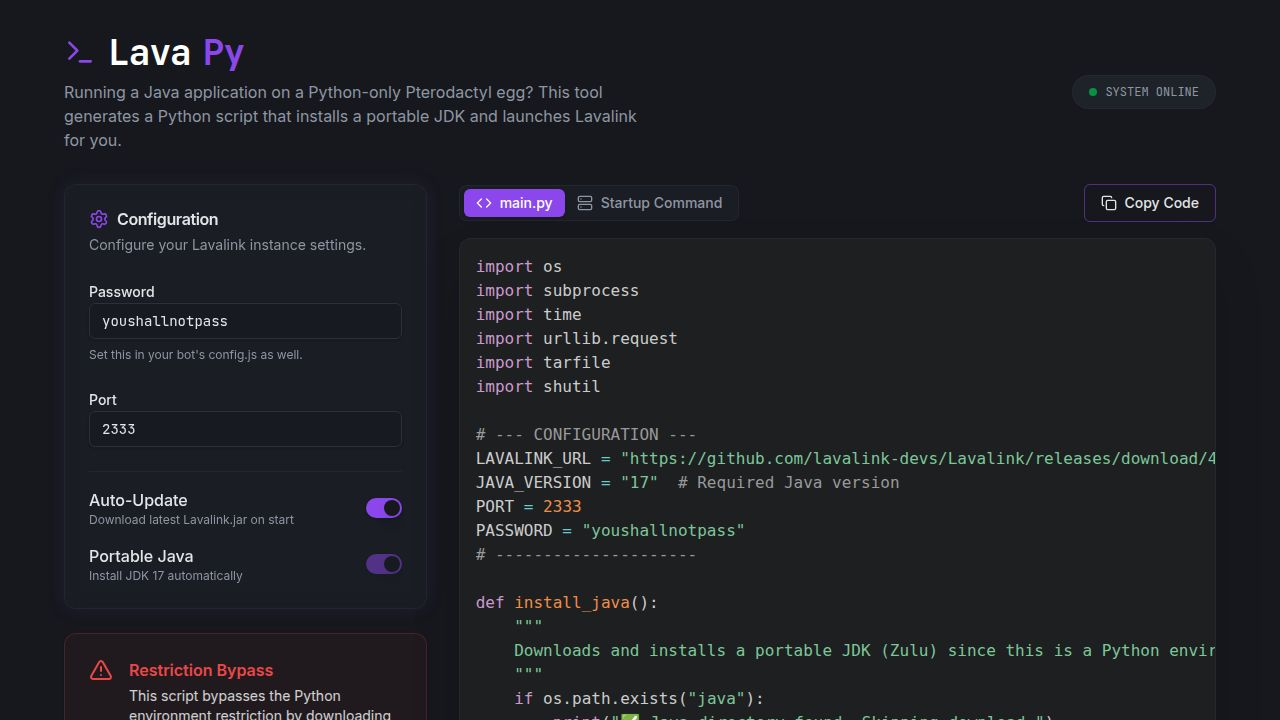
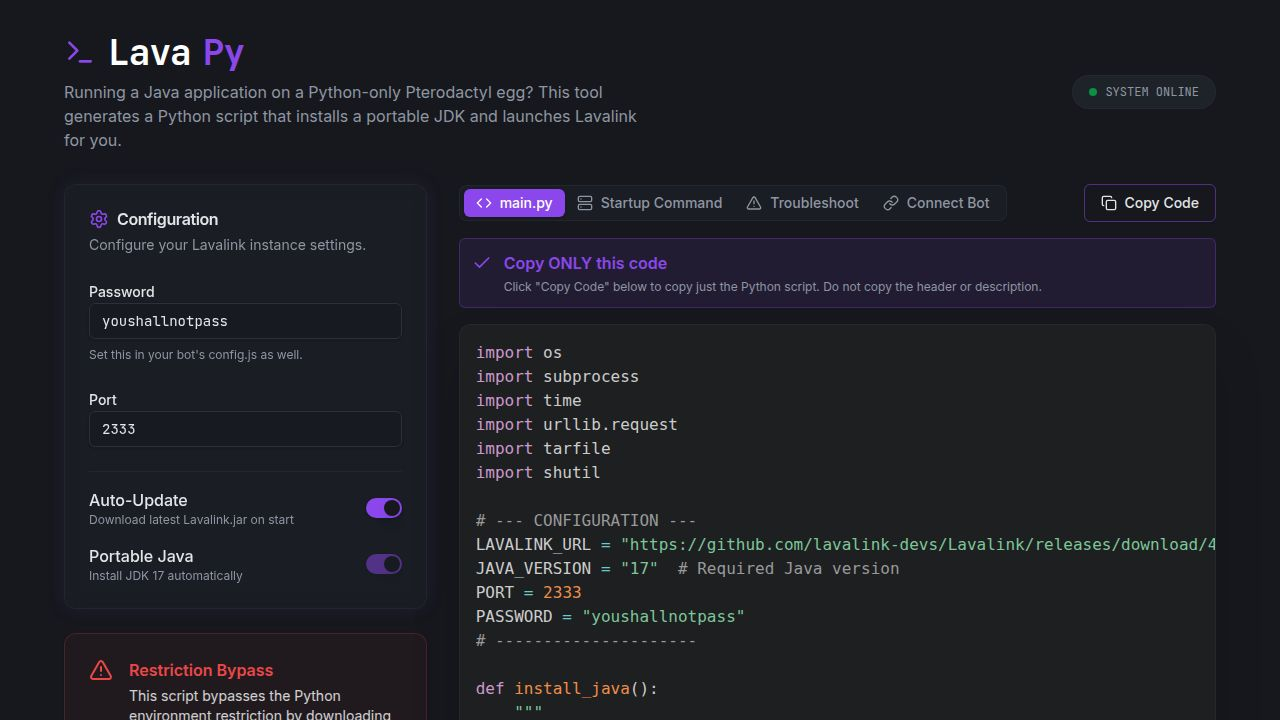
Add connection details for bot integration to the main page
Add a new tab to display host, port, and password for connecting bots.

Replit-Commit-Author: Agent
Replit-Commit-Session-Id: 4c98c197-a67b-4a4b-b8ab-c60ab9487bda
Replit-Commit-Checkpoint-Type: full_checkpoint
Replit-Commit-Event-Id: d56f2978-18ee-4f5a-91e9-58b294c1f979
Replit-Commit-Screenshot-Url: https://storage.googleapis.com/screenshot-production-us-central1/5c9feabf-2735-40b4-98aa-708446ce7d80/4c98c197-a67b-4a4b-b8ab-c60ab9487bda/tcNKEG9
Replit-Helium-Checkpoint-Created: true

Changed region(s): [[0.375, 0.3361, 0.9688, 0.9167], [0.375, 0.9472, 0.5938, 1.0], [0.5938, 0.275, 0.7812, 0.3056]]

diff --git a/client/src/pages/home.tsx b/client/src/pages/home.tsx
@@ -13,7 +13,9 @@ import {
   HelpCircle,
   Cpu,
   FileX,
-  Trash2
+  Trash2,
+  Link,
+  Wifi
 } from "lucide-react";
 import { toast } from "sonner";
 import { Card, CardContent, CardHeader, CardTitle, CardDescription } from "@/components/ui/card";
@@ -357,6 +359,10 @@ if __name__ == "__main__":
                     <AlertTriangle className="w-4 h-4" />
                     Troubleshoot
                   </TabsTrigger>
+                  <TabsTrigger value="connect" className="flex items-center gap-2 data-[state=active]:bg-secondary data-[state=active]:text-secondary-foreground">
+                    <Link className="w-4 h-4" />
+                    Connect Bot
+                  </TabsTrigger>
                 </TabsList>
                 
                 <Button 
@@ -497,6 +503,66 @@ if __name__ == "__main__":
                           <br/>
                           ❌ <strong>Wrong:</strong> Manually selecting and copying from the code area.
                         </p>
+                      </div>
+                    </div>
+                  </CardContent>
+                </Card>
+              </TabsContent>
+
+              <TabsContent value="connect" className="mt-0">
+                <Card className="border-secondary/50 bg-secondary/10">
+                  <CardHeader>
+                    <CardTitle className="text-secondary flex items-center gap-2">
+                      <Wifi className="w-5 h-5" />
+                      Connecting Your Bot
+                    </CardTitle>
+                    <CardDescription className="text-secondary-foreground/80">
+                      Use these values in your bot's <code>config.js</code> or <code>.env</code> file.
+                    </CardDescription>
+                  </CardHeader>
+                  <CardContent className="space-y-6">
+                    <div className="grid gap-4 md:grid-cols-2">
+                      <div className="space-y-2">
+                        <Label className="text-secondary-foreground">HOST / IP</Label>
+                        <div className="p-3 bg-black/50 rounded-md border border-secondary/30 font-mono text-sm text-green-400">
+                          {/* We don't know their IP, but usually it's the server IP */}
+                          127.0.0.1
+                        </div>
+                        <p className="text-xs text-muted-foreground">
+                           If bot is on the <strong>SAME server</strong>, use <code>127.0.0.1</code>.
+                           <br/>
+                           If bot is on a <strong>DIFFERENT server</strong>, use your Panel's IP (without port).
+                        </p>
+                      </div>
+
+                      <div className="space-y-2">
+                         <Label className="text-secondary-foreground">PORT</Label>
+                         <div className="p-3 bg-black/50 rounded-md border border-secondary/30 font-mono text-sm text-green-400">
+                           {port}
+                         </div>
+                         <p className="text-xs text-muted-foreground">
+                           Must match the port in the configuration panel.
+                         </p>
+                      </div>
+
+                      <div className="space-y-2 md:col-span-2">
+                        <Label className="text-secondary-foreground">PASSWORD</Label>
+                        <div className="p-3 bg-black/50 rounded-md border border-secondary/30 font-mono text-sm text-green-400">
+                           {password}
+                        </div>
+                        <p className="text-xs text-muted-foreground">
+                           Must match the password in the configuration panel.
+                        </p>
+                      </div>
+
+                      <div className="space-y-2 md:col-span-2">
+                        <Label className="text-secondary-foreground">SECURE / SSL</Label>
+                         <div className="p-3 bg-black/50 rounded-md border border-secondary/30 font-mono text-sm text-green-400">
+                           false
+                         </div>
+                         <p className="text-xs text-muted-foreground">
+                           LavaPy runs on HTTP, so set this to <code>false</code>.
+                         </p>
                       </div>
                     </div>
                   </CardContent>
